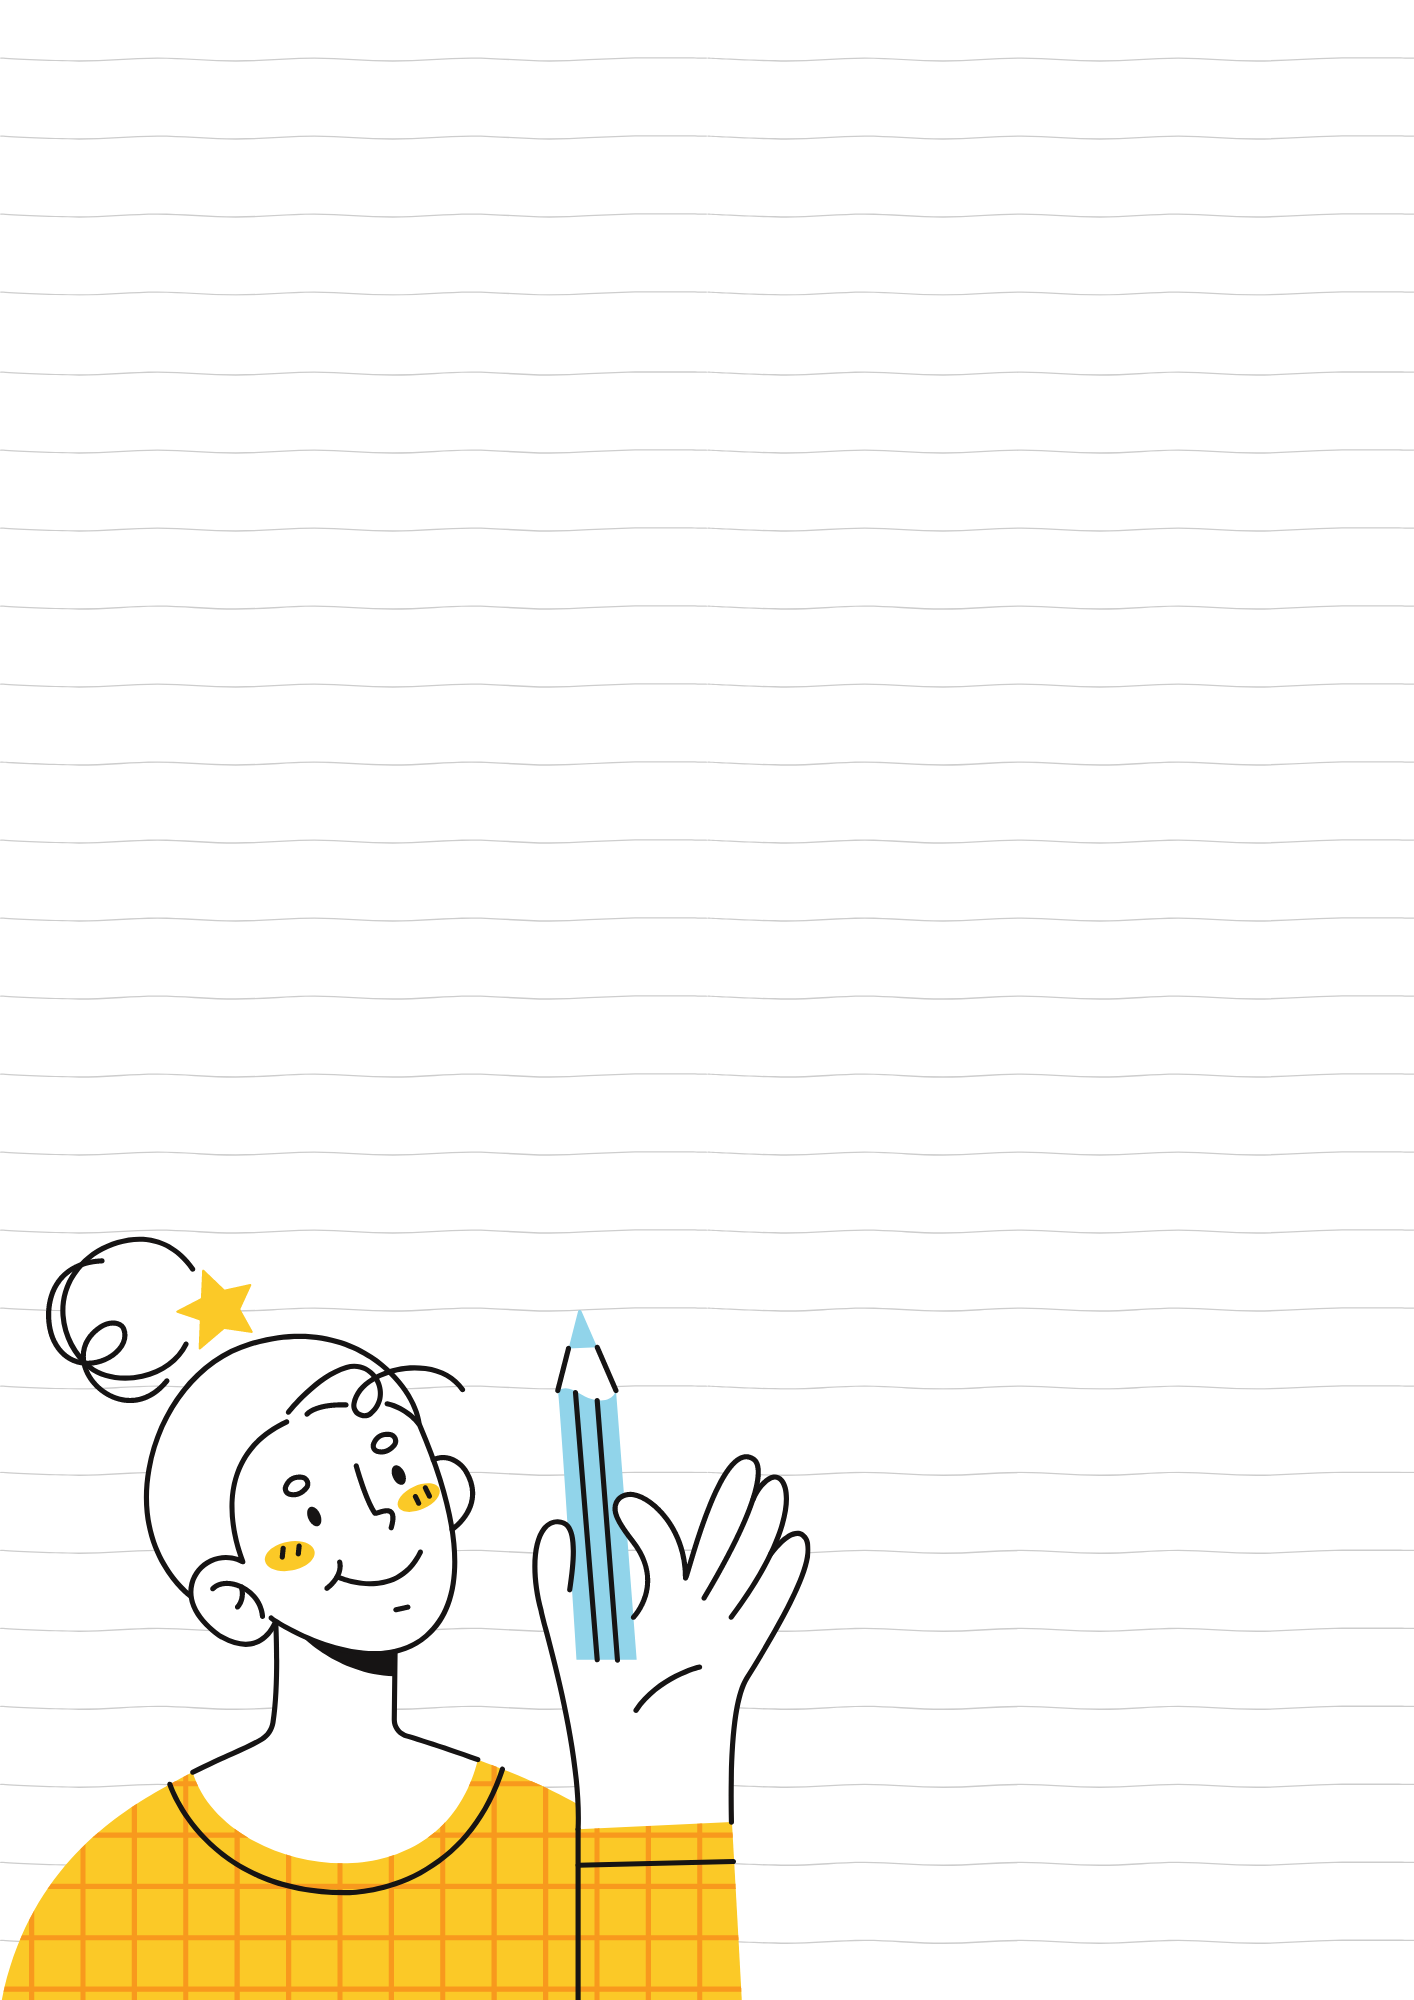
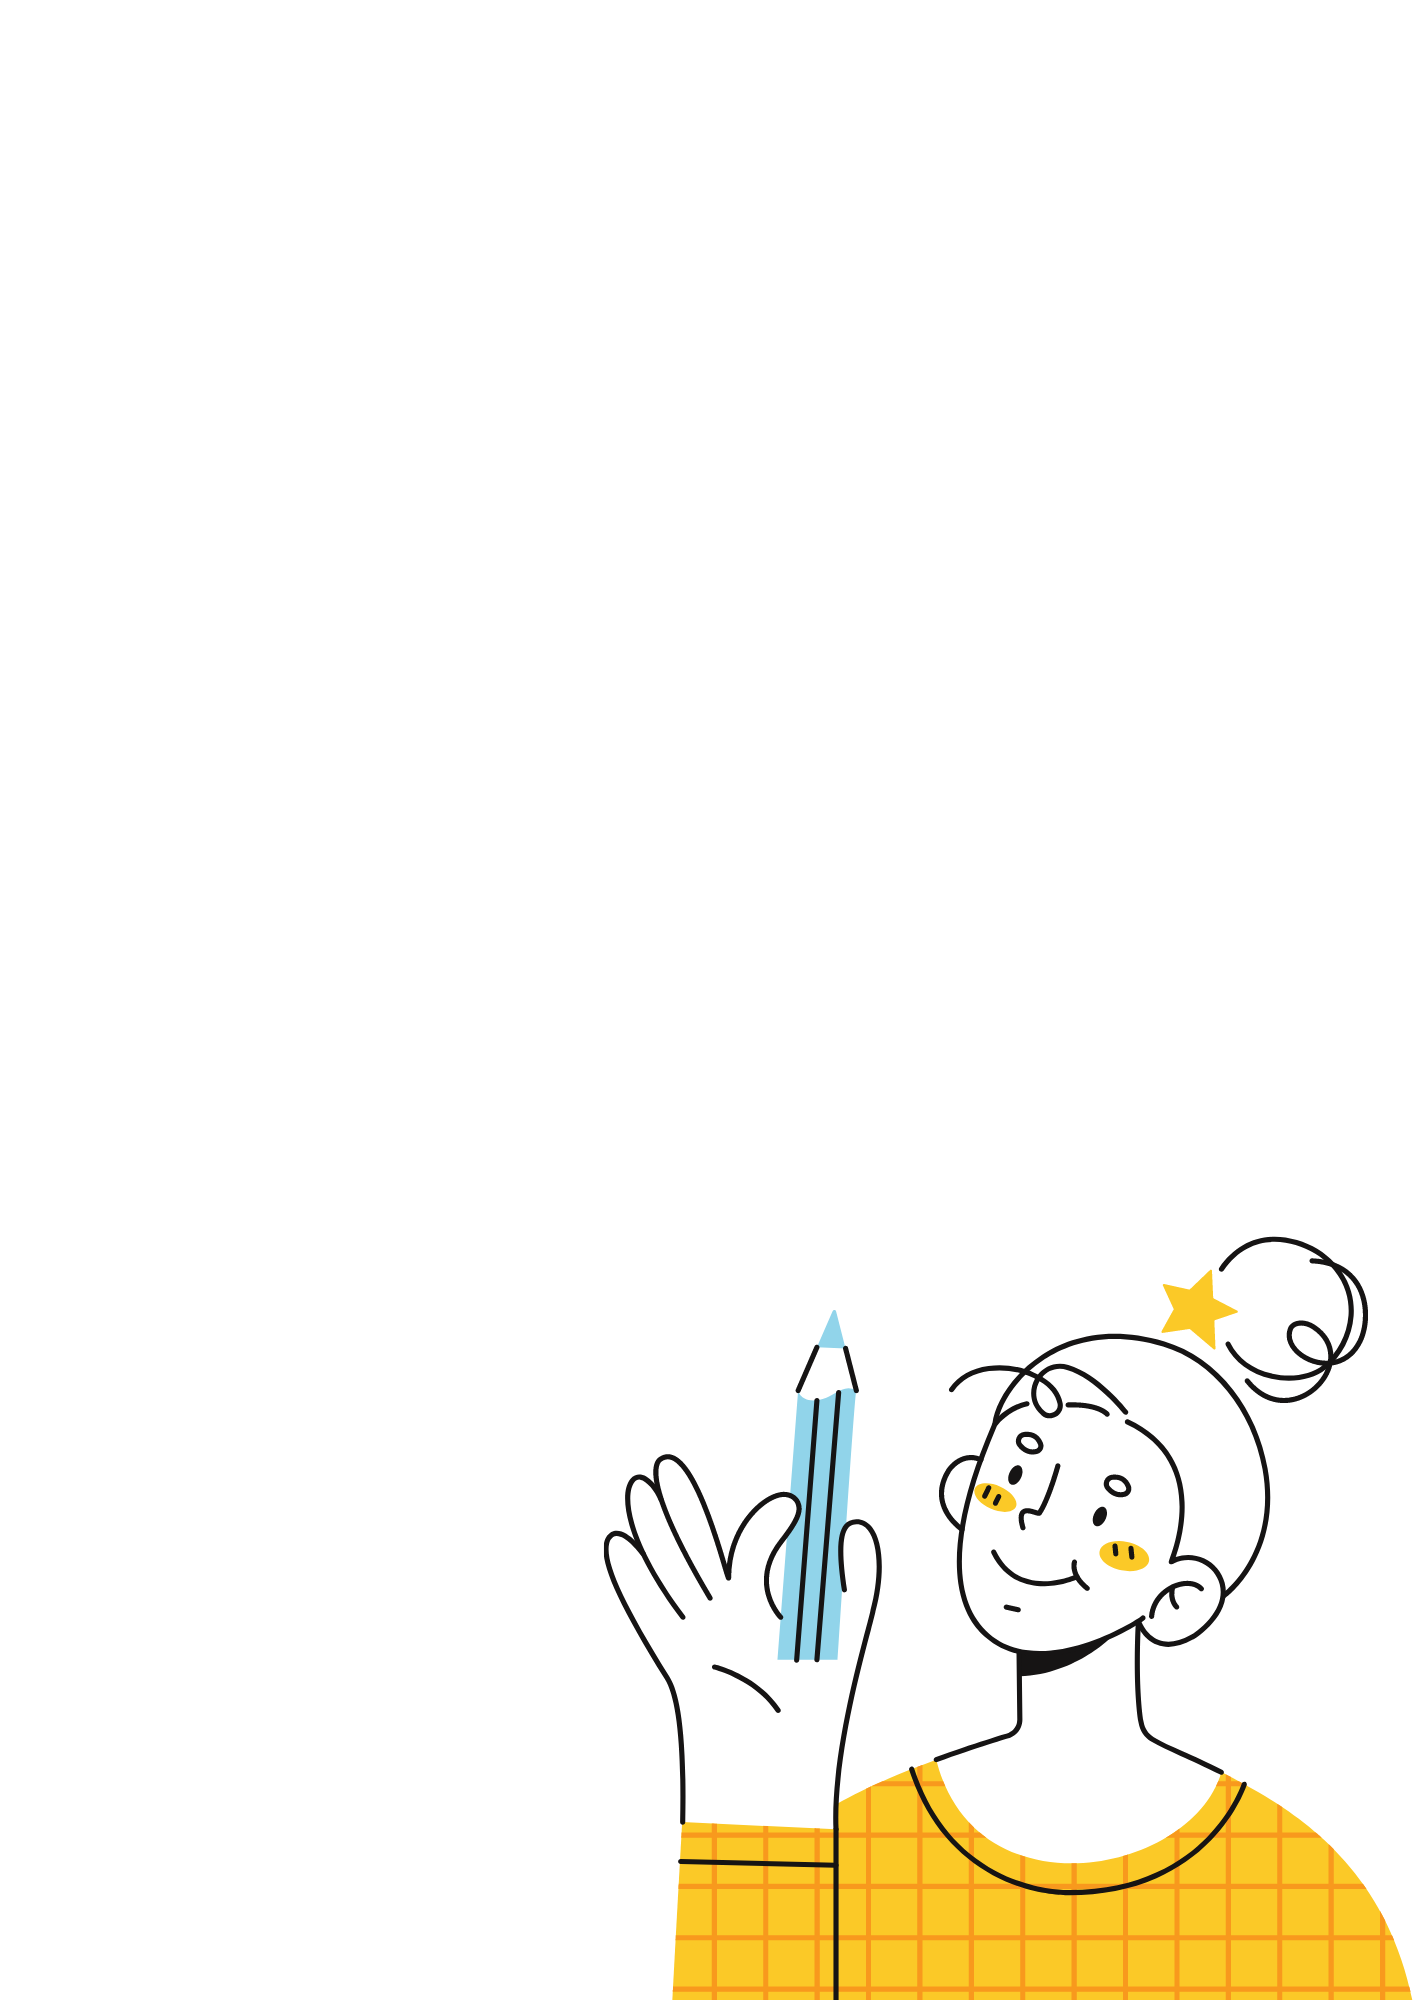
Update styling

Changed region(s): [[0.0, 0.651, 1.0, 1.0], [0.6535, 0.62, 0.9646, 0.868], [0.0311, 0.62, 0.3423, 0.868]]

diff --git a/src/Dictionary.js b/src/Dictionary.js
@@ -15,7 +15,6 @@ export default function Dictionary(props) {
   }
 
   function handlePexelsResponse(response) {
-    console.log(response);
     setPhotos(response.data.photos);
   }
 
@@ -25,7 +24,7 @@ export default function Dictionary(props) {
 
     let pexelsApiKey =
       "563492ad6f91700001000001552d4fa7587e4c94a6d6f67f649a8321";
-    let pexelsApiUrl = `https://api.pexels.com/v1/search?query=${searchedWord}&per_page=2`;
+    let pexelsApiUrl = `https://api.pexels.com/v1/search?query=${searchedWord}&per_page=1`;
     let headers = { Authorization: `Bearer ${pexelsApiKey}` };
     axios.get(pexelsApiUrl, { headers: headers }).then(handlePexelsResponse);
   }
@@ -46,7 +45,7 @@ export default function Dictionary(props) {
   if (loaded) {
     return (
       <div className="Dictionary">
-        <div className="section Half">
+        <div className="Half">
           <form onSubmit={handleSubmit}>
             <input
               type="search"
@@ -55,9 +54,10 @@ export default function Dictionary(props) {
               defaultValue={props.defaultKeyword}
             />{" "}
           </form>
+
           <Results results={results} />
         </div>
-        <div className="section Half">
+        <div className="section">
           <Photos photos={photos} />
         </div>
       </div>

diff --git a/src/Results.js b/src/Results.js
@@ -6,20 +6,22 @@ import "./Results.css";
 export default function Results(props) {
   if (props.results) {
     return (
-      <div className="Results">
-        <h2>{props.results.word}</h2>
-        {props.results.phonetics.map(function (phonetic, index) {
-          return (
-            <div key={index}>
-              <Phonetic phonetic={phonetic} />
-            </div>
-          );
-        })}
+      <div className="Results Half-split">
+        <section>
+          <h2>{props.results.word}</h2>
+          {props.results.phonetics.map(function (phonetic, index) {
+            return (
+              <div key={index}>
+                <Phonetic phonetic={phonetic} />
+              </div>
+            );
+          })}
+        </section>
         {props.results.meanings.map(function (meaning, index) {
           return (
-            <div key={index}>
+            <section key={index}>
               <Meaning meaning={meaning} />
-            </div>
+            </section>
           );
         })}
       </div>

diff --git a/src/Photos.js b/src/Photos.js
@@ -5,17 +5,19 @@ export default function Photos(props) {
   if (props.photos) {
     return (
       <div className="Photos">
-        {props.photos.map(function (photo, index) {
-          return (
-            <div className="text-center" key={index}>
-              <img
-                src={photo.src.landscape}
-                alt="pexels"
-                className="img-fluid"
-              />
-            </div>
-          );
-        })}
+        <section>
+          {props.photos.map(function (photo, index) {
+            return (
+              <div className="text-center" key={index}>
+                <img
+                  src={photo.src.landscape}
+                  alt="pexels"
+                  className="img-fluid"
+                />
+              </div>
+            );
+          })}
+        </section>
       </div>
     );
   } else {

diff --git a/src/Meaning.js b/src/Meaning.js
@@ -6,19 +6,10 @@ export default function Meaning(props) {
   return (
     <div className="Meaning">
       <h4>{props.meaning.partOfSpeech}</h4>
-      {props.meaning.definitions.map(function (definition, index) {
-        return (
-          <div key={index}>
-            <div>
-              {definition.definition}
-              <br />
-
-              <div className="definition">{definition.example}</div>
-              <Synonyms synonyms={definition.synonyms} />
-            </div>
-          </div>
-        );
-      })}
+      <div>{props.meaning.definitions[0].definition}</div>
+      <br />
+      <div className="example">{props.meaning.definitions[0].example}</div>
+      <Synonyms synonyms={props.meaning.definitions[0].synonyms} />
     </div>
   );
 }

diff --git a/src/App.css b/src/App.css
@@ -1,11 +1,12 @@
 .App {
   background-color: white;
   background-image: url("Background-vertical.png");
-  background-position: bottom 0px right 100px;
+  background-position: bottom 0px right 35px;
   background-repeat: no-repeat;
-  background-size: 70%;
+  background-size: 65%;
   min-height: 100%;
   min-width: 1024px;
+  position: absolute;
 }
 
 .App .container {
@@ -16,16 +17,13 @@
 .App-header {
   display: flex;
   flex-direction: column;
-  align-items: center;
   font-size: 8vh;
   font-family: "Patrick Hand", cursive;
   font-weight: bolder;
-  padding-top: 20px;
-  padding-bottom: 15px;
+  transform: rotate(-90deg);
 }
 
 .App footer {
-  padding-top: 50px;
-  padding-bottom: 15px;
+  padding-left: 300px;
   color: grey;
 }

diff --git a/src/Phonetic.js b/src/Phonetic.js
@@ -1,13 +1,19 @@
 import React from "react";
+import "./Phonetic.css";
 
 export default function Phonetic(props) {
   return (
     <div className="Phonetic">
-      <a href={props.phonetic.audio} target="_blank" rel="noopener noreferrer">
-        Listen
+      {" "}
+      <a
+        href={props.phonetic.audio}
+        target="_blank"
+        rel="noopener noreferrer"
+        className="listenIcon"
+      >
+        ▷
       </a>
-      <br />
-      {props.phonetic.text}
+      <div className="text">{props.phonetic.text}</div>
     </div>
   );
 }

diff --git a/src/Dictionary.css b/src/Dictionary.css
@@ -5,12 +5,15 @@
   grid-template-columns: 50% 50%;
 }
 
-.Dictionary .section {
+.Dictionary section {
   background: white;
   padding: 30px;
   border: 4px solid #fbc927;
-  border-radius: 6px;
+  border-radius: 12px;
   margin: 20px 0;
+  margin-right: 20px;
+  display: flex;
+  flex-direction: column;
 }
 
 .Dictionary input {
@@ -23,4 +26,9 @@
   text-align: center;
   opacity: 0.8;
   margin-bottom: 25px;
+  display: block;
+}
+
+.Dictionary input:focus {
+  outline-width: 0;
 }

diff --git a/src/Phonetic.css b/src/Phonetic.css
@@ -1,0 +1,25 @@
+.Phonetic {
+  letter-spacing: 1px;
+}
+
+.Phonetic .listenIcon {
+  font-size: 24px;
+  text-decoration: none;
+  color: white;
+  background-color: #91d4ea;
+  border-radius: 20px;
+  padding: 5px 10px;
+  margin: 0 auto;
+  transition: all 150ms ease-in-out;
+  display: inline-block;
+}
+
+.Phonetic .listenIcon:hover {
+  color: black;
+}
+
+.Phonetic .text {
+  opacity: 0.5;
+  display: inline-block;
+  padding-left: 5px;
+}

diff --git a/src/Synonyms.js b/src/Synonyms.js
@@ -1,10 +1,10 @@
 import React from "react";
+import "./Synonyms.css";
 
 export default function Synonyms(props) {
   if (props.synonyms && props.synonyms.length > 0) {
     return (
       <div className="Synonyms">
-        <span>Synonyms:</span>
         <ul>
           {props.synonyms.map(function (synonym, index) {
             return (

diff --git a/src/App.js b/src/App.js
@@ -12,7 +12,7 @@ function App() {
           <main>
             <Dictionary defaultKeyword="book" />
           </main>
-          <footer className="text-center">
+          <footer className="text-left">
             <small>Coded by Sandra Kriukaitė</small>
           </footer>
         </div>

diff --git a/src/Photos.css b/src/Photos.css
@@ -1,5 +1,12 @@
+.Photos {
+  width: fit-content;
+  block-size: fit-content;
+  margin-top: 61px;
+}
+
 .Photos img {
   border-radius: 4px;
-  margin-bottom: 20px;
-  max-width: 200px;
+
+  max-width: 400px;
+  text-align: center;
 }

diff --git a/src/Synonyms.css b/src/Synonyms.css
@@ -1,0 +1,13 @@
+.Synonyms {
+  margin: 15px 0 0;
+  padding: 0;
+  font-size: 15px;
+}
+
+.Synonyms li {
+  list-style-type: none;
+  display: inline-block;
+  padding-right: 70px;
+  line-height: 1;
+  margin: 0 -31px;
+}
